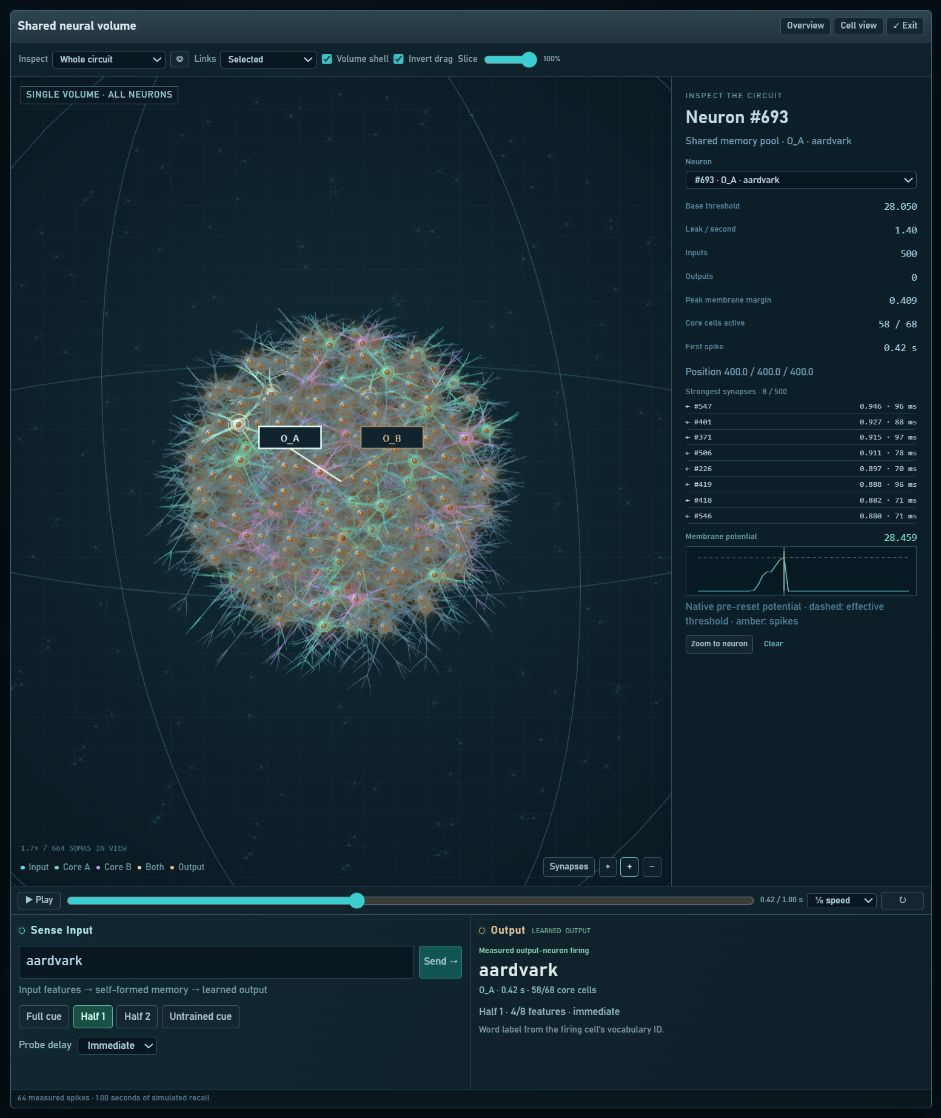
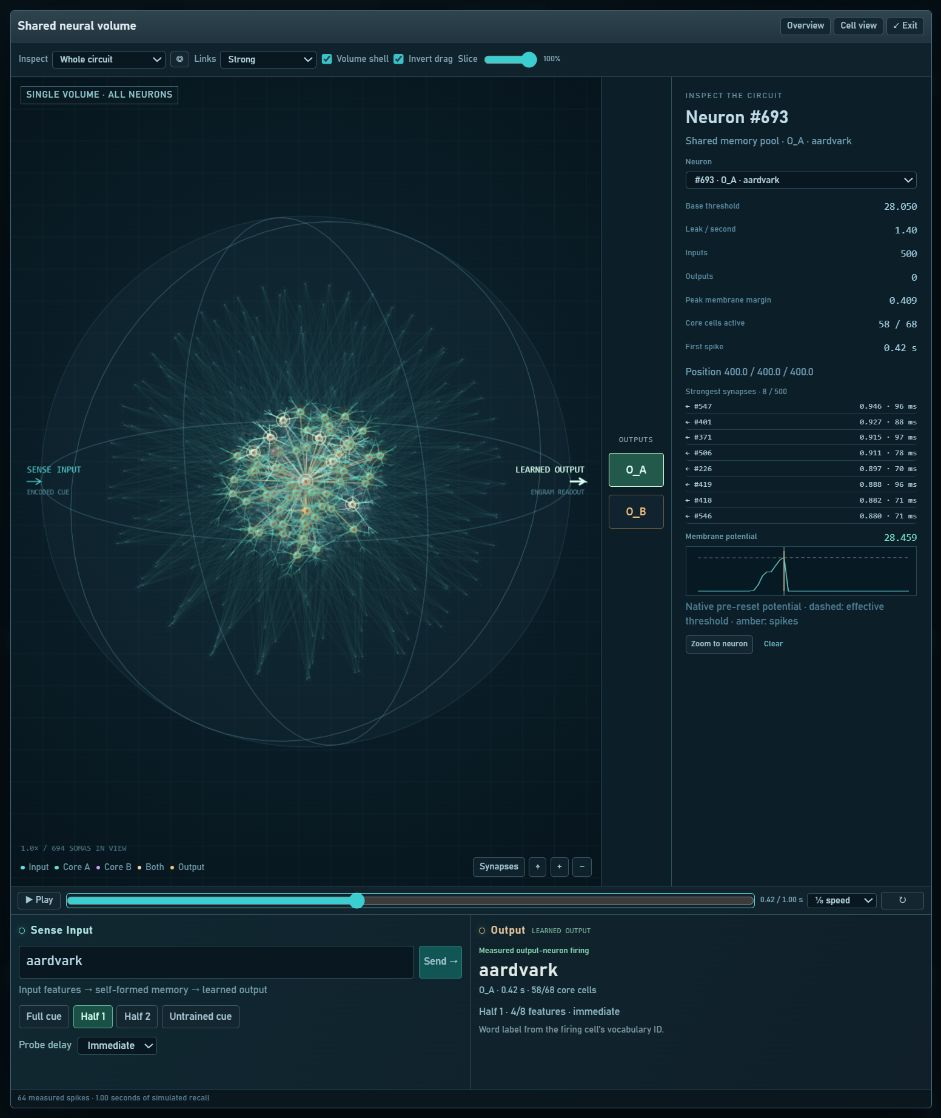
Move output neuron selectors beside the volume canvas

diff --git a/public/index.html b/public/index.html
@@ -7,7 +7,7 @@
 <section id="volume-panel" class="panel volume-panel" aria-label="Neural volume">
 <div class="window-bar"><h2>Shared neural volume <span>/ NEURON CORE</span></h2><div><button id="overview-button">Overview</button><button id="detail-button">Cell view</button><button id="expand-volume" aria-expanded="false" aria-label="Expand neural view">⛶</button></div></div>
 <div class="viewer-toolbar"><label>Inspect<select id="viewer-domain" aria-label="Inspect domain"></select></label><button id="focus-domain" title="Center the shared volume">◎</button><label>Links<select id="edge-mode"><option value="learned">Strong</option><option value="all">All</option><option value="selected">Selected</option><option value="formed" data-readout-links hidden>Grown pool links</option><option value="readout" data-readout-links hidden>Output links</option></select></label><label class="toggle-label"><input id="boundaries" type="checkbox" checked>Volume shell</label><label class="toggle-label"><input id="invert-drag" type="checkbox" checked>Invert drag</label><label class="cut-control">Slice<input id="cut-depth" aria-label="Volume cutaway" type="range" min="0" max="100" value="100"><output id="cut-label">100%</output></label></div>
-<div class="volume-body"><div class="volume-stage"><canvas id="volume" tabindex="0" aria-label="3D neuronal volume. Inverted drag rotates, Shift drag pans, scroll zooms. Click a neuron to inspect."></canvas><div class="volume-top"><span id="volume-scope">Single volume</span><span id="replay-label">Inverted orbit · Shift-drag to pan</span></div><div class="volume-tools"><button id="connections-button" aria-pressed="true">Synapses</button><button id="reset-view" aria-label="Reset volume view">⌖</button><button id="zoom-in" aria-label="Zoom in">+</button><button id="zoom-out" aria-label="Zoom out">−</button></div><div id="standard-legend" class="volume-legend"><span><i class="legend-input"></i>Input soma</span><span><i class="legend-memory"></i>Engram soma</span><span><i class="legend-firing"></i>Spike</span></div><div id="readout-legend" class="volume-legend" hidden><span><i class="legend-input"></i>Input</span><span><i class="legend-a"></i>Core A</span><span><i class="legend-b"></i>Core B</span><span><i class="legend-both"></i>Both</span><span><i class="legend-output"></i>Output</span></div><div id="node-tooltip" class="node-tooltip" hidden></div><div id="volume-empty" class="volume-empty" hidden>Choose words and train a memory.</div></div></div>
+<div class="volume-body"><div class="volume-viewport"><div class="volume-stage"><canvas id="volume" tabindex="0" aria-label="3D neuronal volume. Inverted drag rotates, Shift drag pans, scroll zooms. Click a neuron to inspect."></canvas><div class="volume-top"><span id="volume-scope">Single volume</span><span id="replay-label">Inverted orbit · Shift-drag to pan</span></div><div class="volume-tools"><button id="connections-button" aria-pressed="true">Synapses</button><button id="reset-view" aria-label="Reset volume view">⌖</button><button id="zoom-in" aria-label="Zoom in">+</button><button id="zoom-out" aria-label="Zoom out">−</button></div><div id="standard-legend" class="volume-legend"><span><i class="legend-input"></i>Input soma</span><span><i class="legend-memory"></i>Engram soma</span><span><i class="legend-firing"></i>Spike</span></div><div id="readout-legend" class="volume-legend" hidden><span><i class="legend-input"></i>Input</span><span><i class="legend-a"></i>Core A</span><span><i class="legend-b"></i>Core B</span><span><i class="legend-both"></i>Both</span><span><i class="legend-output"></i>Output</span></div><div id="node-tooltip" class="node-tooltip" hidden></div><div id="volume-empty" class="volume-empty" hidden>Choose words and train a memory.</div></div><aside id="readout-rail" class="readout-rail" aria-label="Output neurons" hidden><span>OUTPUTS</span><div id="readout-shortcuts" role="group" aria-label="Inspect output neuron"></div></aside></div></div>
 <div class="replay-controls"><button id="play-activity" aria-label="Play recorded activity" disabled>▶ Play</button><input id="activity-time" aria-label="Recall timeline" type="range" min="0" max="1000" step="10" value="0" disabled><output id="activity-clock">0.00 / 1.00 s</output><select id="replay-speed" aria-label="Replay speed"><option value="0.125">⅛ speed</option><option value="0.25">¼ speed</option><option value="1">Real time</option></select><button id="replay-button" hidden aria-label="Replay activity">↻</button></div><div class="io-dock"><form id="recall-form" class="sense-input"><label for="recall-word"><span class="port-dot"></span>Sense Input</label><div class="recall-input"><input id="recall-word" maxlength="200" placeholder="Enter a word or supported question…" autocomplete="off" required><button id="recall-submit" type="submit">Send →</button></div><p id="sense-description">One cue → all enrolled domains</p>
 <div id="readout-probes" hidden>
   <div class="probe-modes" role="group" aria-label="Cue features"><button type="button" data-probe-mode="full" aria-pressed="true">Full cue</button><button type="button" data-probe-mode="half-1" aria-pressed="false">Half 1</button><button type="button" data-probe-mode="half-2" aria-pressed="false">Half 2</button><button type="button" data-probe-mode="untrained" aria-pressed="false">Untrained cue</button></div>

diff --git a/public/volume.js b/public/volume.js
@@ -23,7 +23,7 @@ export class VolumeView {
       if(event.key==='+'||event.key==='=')this.zoom(1.2);if(event.key==='-')this.zoom(1/1.2);if(event.key==='0')this.reset();this.draw();
     });
   }
-  hit(event){return this.outputLabels?.find(p=>event.offsetX>=p.x&&event.offsetX<=p.x+62&&event.offsetY>=p.y&&event.offsetY<=p.y+22)??this.points.filter(p=>Math.hypot(p.x-event.offsetX,p.y-event.offsetY)<Math.max(6,p.radius+3)).sort((a,b)=>b.z-a.z)[0];}
+  hit(event){return this.points.filter(p=>Math.hypot(p.x-event.offsetX,p.y-event.offsetY)<Math.max(6,p.radius+3)).sort((a,b)=>b.z-a.z)[0];}
   setScene(scene){this.scene=scene;this.nodesById=new Map((scene?.nodes??[]).map(n=>[n.id,n]));this.edgesBySource=new Map();for(const edge of scene?.edges??[]){if(!this.edgesBySource.has(edge.source))this.edgesBySource.set(edge.source,[]);this.edgesBySource.get(edge.source).push(edge);}this.selectedId=null;this.clearActivity();this.reset();}
   setDomain(domain){this.domain=domain;this.selectedId=null;this.onSelect(null);this.draw();}
   focusDomain(){this.target={...(this.scene?.volume?.center??{x:400,y:400,z:400})};this.magnification=1;this.pan={x:0,y:0};this.draw();}
@@ -49,7 +49,6 @@ export class VolumeView {
     const dpr=Math.min(devicePixelRatio||1,2);if(canvas.width!==Math.round(w*dpr)||canvas.height!==Math.round(h*dpr)){canvas.width=Math.round(w*dpr);canvas.height=Math.round(h*dpr);}ctx.setTransform(dpr,0,0,dpr,0,0);
     const bg=ctx.createRadialGradient(w*.5,h*.45,10,w*.5,h*.5,Math.max(w,h)*.8);bg.addColorStop(0,'#0d2732');bg.addColorStop(1,'#050f16');ctx.fillStyle=bg;ctx.fillRect(0,0,w,h);
     ctx.lineWidth=1;ctx.strokeStyle='#7da9bb0b';for(let x=0;x<w;x+=32){ctx.beginPath();ctx.moveTo(x,0);ctx.lineTo(x,h);ctx.stroke();}for(let y=0;y<h;y+=32){ctx.beginPath();ctx.moveTo(0,y);ctx.lineTo(w,y);ctx.stroke();}
-    this.outputLabels=[];
     if(!this.scene){this.points=[];return;}
     const scale=Math.max(80,Math.min(w-60,h-70))/800*this.magnification;
     const project=node=>{const x=node.x-this.target.x,y=node.y-this.target.y,z=node.z-this.target.z;const rx=x*Math.cos(this.yaw)+z*Math.sin(this.yaw),rz=-x*Math.sin(this.yaw)+z*Math.cos(this.yaw),ry=y*Math.cos(this.pitch)-rz*Math.sin(this.pitch),depth=y*Math.sin(this.pitch)+rz*Math.cos(this.pitch);return{x:w/2+this.pan.x+rx*scale,y:h/2+this.pan.y+ry*scale,z:depth,node};};
@@ -79,17 +78,6 @@ export class VolumeView {
       p.radius=drawMorphology(ctx,p,project,scale,{active:recent,selected,observed:latest.has(p.node.id),emphasized:Boolean(this.selectedId&&connected.has(p.node.id))});
       if(focused&&p.x>=0&&p.x<=w&&p.y>=0&&p.y<=h)this.points.push(p);
     }ctx.globalAlpha=1;
-    // Screen-space callouts distinguish co-located outputs without moving cells.
-    const outputs=points.filter(p=>p.node.role==='output');
-    for(const [index,p] of outputs.entries()){
-      if(p.x<0||p.x>w||p.y<0||p.y>h)continue;
-      const x=Math.max(6,Math.min(w-68,p.x+(index===0?-82:20))),y=Math.max(35,Math.min(h-60,p.y-55));
-      const active=latest.has(p.node.id)&&this.time-latest.get(p.node.id)<.055,selected=p.node.id===this.selectedId;
-      ctx.strokeStyle=active?'#e2fff3':selected?'#ffe2ac':'#bb9968';ctx.fillStyle='#10232e';ctx.lineWidth=selected?1.5:1;
-      ctx.beginPath();ctx.moveTo(x+31,y+22);ctx.lineTo(p.x,p.y);ctx.stroke();ctx.fillRect(x,y,62,22);ctx.strokeRect(x,y,62,22);
-      ctx.fillStyle=active?'#e2fff3':'#f3c181';ctx.font='11px Consolas,monospace';ctx.textAlign='center';ctx.fillText(p.node.label.split(' · ')[0],x+31,y+15);
-      this.outputLabels.push({x,y,node:p.node,radius:12,z:p.z});
-    }
     ctx.textAlign='left';
     if(this.magnification<=1.6&&this.scene.ports){
       const center=project(this.scene.volume.center),radius=this.scene.volume.radius*scale;

diff --git a/public/readout-panel.js b/public/readout-panel.js
@@ -21,7 +21,8 @@ export class ReadoutPanel {
   setMemory(memory){
     this.memory=memory?.kind==='readout'?memory:null;this.result=null;this.mode='full';
     const active=Boolean(this.memory);
-    for(const id of ['readout-learning','readout-probes','readout-legend'])$(id).hidden=!active;
+    for(const id of ['readout-learning','readout-probes','readout-legend','readout-rail'])$(id).hidden=!active;
+    $('readout-shortcuts').replaceChildren();
     $('standard-legend').hidden=active;$('readout-button').setAttribute('aria-pressed',String(active));
     $('volume-panel').classList.toggle('readout-mode',active);
     $('metric-domain-label').textContent=active?'VOLUME':'DOMAINS';
@@ -29,6 +30,12 @@ export class ReadoutPanel {
     for(const option of document.querySelectorAll('[data-readout-links]')){option.disabled=!active;option.hidden=!active;}
     if(!active){$('readout-cells').replaceChildren();return;}
     $('readout-seed').value=memory.seed;
+    for(const cue of ['A','B']){
+      const info=memory.outputs[cue],button=el('button','readout-shortcut',info.name);
+      button.type='button';button.dataset.outputCue=cue;button.dataset.neuronId=info.id;
+      button.title='Inspect '+info.name+' · '+info.word;button.setAttribute('aria-label',button.title);button.setAttribute('aria-pressed','false');
+      button.addEventListener('click',()=>this.inspect(info.id));$('readout-shortcuts').append(button);
+    }
     $('readout-proof').textContent='3 seeds confirmed · R1–R4 + all controls pass';
     $('readout-origin').textContent='Formation '+memory.formationEpoch+' rounds · Readout '+memory.epochs+' rounds';
     for(const button of document.querySelectorAll('[data-readout-word]'))button.textContent=button.dataset.readoutWord+' · '+memory.cues[button.dataset.readoutWord];
@@ -72,5 +79,6 @@ export class ReadoutPanel {
     area.append(el('p','readout-codebook','Word label from the firing cell’s vocabulary ID.'));
     $('readout-note').textContent='Sent bits '+result.inputBits.join(', ')+' · '+result.trace.length+' measured spikes. Scrub the timeline or inspect an output below.';
   }
-  frame(time){if(!this.result)return;for(const card of $('readout-cells').children){const o=this.result.outputs[card.dataset.outputCue];card.classList.toggle('firing',o.spikeTimes.some(t=>time>=t&&time-t<.06));}}
+  select(id){for(const button of $('readout-shortcuts').children)button.setAttribute('aria-pressed',String(Number(button.dataset.neuronId)===id));}
+  frame(time){if(!this.result)return;for(const card of [...$('readout-cells').children,...$('readout-shortcuts').children]){const o=this.result.outputs[card.dataset.outputCue];card.classList.toggle('firing',o.spikeTimes.some(t=>time>=t&&time-t<.06));}}
 }

diff --git a/public/style.css b/public/style.css
@@ -29,3 +29,13 @@ body:has(dialog[open]){overflow:hidden}dialog{width:min(690px,calc(100% - 30px))
 .viewer-dialog .readout-mode .io-dock{min-height:175px;max-height:200px}
 @media(max-width:700px){.header-actions{width:100%;min-width:0;flex-wrap:wrap;gap:4px}.console-header{height:auto}.readout-cell{white-space:normal;overflow-wrap:anywhere}}
 @media(max-width:700px){.readout-mode .io-dock{grid-template-columns:1fr 1fr;min-height:210px;max-height:245px}.readout-mode .sense-input,.readout-mode .sense-output{padding:8px}.readout-mode .sense-input input{font-size:12px}.probe-modes{gap:4px}.probe-modes button{font-size:10px;min-height:30px}.readout-mode .sense-output h3{font-size:10px}.readout-mode .result-word{font-size:17px}.readout-learning>p{font-size:10px}.viewer-dialog .readout-mode .io-dock{min-height:215px;max-height:245px}}
+
+/* Keep output selectors outside the zoomable canvas in both viewer layouts. */
+.volume-viewport{display:flex;flex:1;min-width:0;min-height:0}
+.readout-rail{flex:0 0 70px;display:flex;flex-direction:column;justify-content:center;gap:9px;padding:8px 7px;background:#0c1e28;border-left:1px solid #314f5d;overflow:auto}
+.readout-rail>span{font:8px Consolas,monospace;letter-spacing:.5px;text-align:center;color:#8fa2a4}
+#readout-shortcuts{display:flex;flex-direction:column;gap:8px}
+.readout-shortcut{width:100%;min-height:34px;padding:6px 4px;color:#f3c181;border-color:#6e5c43;background:#10232e;font:12px Consolas,monospace}
+.readout-shortcut:hover,.readout-shortcut[aria-pressed="true"]{background:#3a3022;border-color:#ffe2ac;color:#ffe2ac}
+.readout-shortcut.firing{background:#22594b;border-color:#deffdf;color:#e2fff3}
+@media(max-width:700px){.readout-rail{flex-basis:58px;padding:6px 4px}.readout-rail>span{font-size:7px}}

diff --git a/public/app.js b/public/app.js
@@ -257,6 +257,7 @@ function populateNeuronPicker() {
   }
 }
 function inspectNode(node) {
+  readoutPanel.select(node?.id??null);
   dashboard.setNeuron(node);
   inspectedNode=node;$('inspect-content').replaceChildren();$('inspect-dynamic').hidden=!node;$('focus-neuron').disabled=!node;$('clear-neuron').disabled=!node;$('neuron-picker').value=node?.id??'';
   $('inspect-title').textContent=node?'Neuron #'+node.id:scope?(domains.get(scope)?.name??'Domain'):'Shared volume';

diff --git a/docs/READOUT_UI.md b/docs/READOUT_UI.md
@@ -26,14 +26,14 @@ as **No response**; multiple firing outputs are shown as ambiguous.
 The 192 input neurons, 500 pool neurons and two output neurons retain their
 saved coordinates and connections. Core A is teal, core B purple, their overlap
 pale gold, and outputs amber. Both output cells occupy the center in the actual
-circuit; screen-space O_A/O_B callouts point to that position without moving
-the neurons. Unassigned pool cells remain visible.
+circuit; the O_A/O_B buttons sit in a fixed strip to the right of the canvas, so they
+stay accessible while zooming without covering the neurons. Unassigned pool cells remain visible.
 
 Use play/pause, the timeline, replay speed, zoom, slice and expanded view to
 inspect the measured response. Links can show strong connections, all links,
 selected-cell links, grown pool links, or output projections.
 
-Click O_A/O_B in the volume or their cards to inspect threshold, core activation,
+Click O_A/O_B beside the volume or their cards to inspect threshold, core activation,
 peak membrane margin, first spike and incoming weights/delays. The meter is the
 fraction of frozen core cells that fired, not a confidence probability. Output
 traces show native potential before firing/reset, with the effective threshold;
